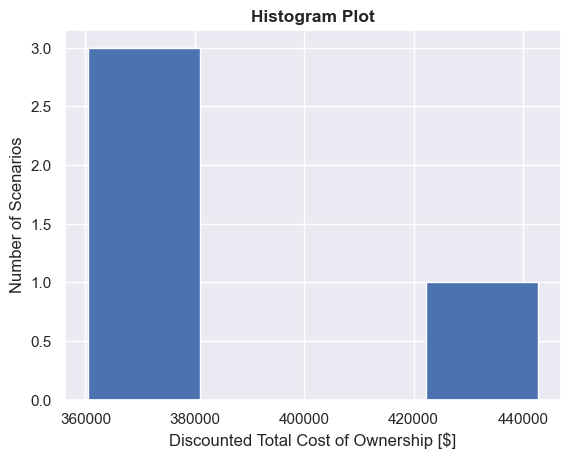
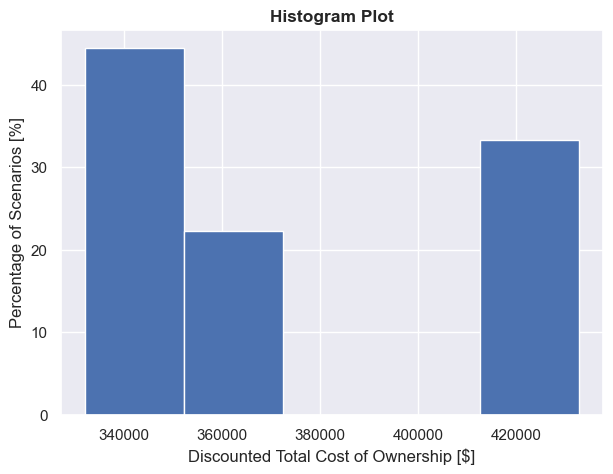
Add height and width param to violin and histogram

diff --git a/t3co/demos/visualization_demo.py b/t3co/demos/visualization_demo.py
@@ -1,4 +1,4 @@
-#%%
+# %%
 import pandas as pd
 import os
 
@@ -12,6 +12,7 @@ import time
 from t3co.run import run_scenario as rs
 from t3co.moopack import moo
 from t3co import sweep
+
 
 def run_t3co(analysis_id, config_filename, run_multi=False, save_results=False):
     start = time.time()
@@ -60,7 +61,11 @@ def run_t3co(analysis_id, config_filename, run_multi=False, save_results=False):
         "exclude": exclude,
         "algo": algorithms,
         "dir_mark": "",
-        "dst_dir":  (Path(os.path.abspath(__file__)).parents[1] / "results" if config.dst_dir is None else  config.dst_dir),
+        "dst_dir": (
+            Path(os.path.abspath(__file__)).parents[1] / "results"
+            if config.dst_dir is None
+            else config.dst_dir
+        ),
         "file_mark": "".replace(".csv", ""),
         "skip_save_veh": True,
         "x_tol": float(0.001),
@@ -179,7 +184,9 @@ def run_t3co(analysis_id, config_filename, run_multi=False, save_results=False):
                 reports.append(report_i)
                 k = len(reports)
                 if save_results:
-                    if (k % 20 == 0 or k == 4) and (len(selections_list) != 1 and k != 0):
+                    if (k % 20 == 0 or k == 4) and (
+                        len(selections_list) != 1 and k != 0
+                    ):
                         reports_df = pd.DataFrame(reports)
                         reports_df.sort_values(by=["selection"], inplace=True)
                         reports_df.to_csv(resdir / RES_FILE, index=False, header=True)
@@ -191,7 +198,6 @@ def run_t3co(analysis_id, config_filename, run_multi=False, save_results=False):
             pool.close()
             pool.join()
 
-            
             if save_results:
                 reports_df = pd.DataFrame(reports)
                 reports_df.sort_values(by=["selection"], inplace=True)
@@ -243,11 +249,30 @@ def run_t3co(analysis_id, config_filename, run_multi=False, save_results=False):
 
     return reports_df
 
-reports_df = run_t3co(analysis_id=0, config_filename=Path(__file__).parents[1]/"resources"/"T3COConfig.csv")
-tc = T3COCharts(results_df=reports_df)  
-tc.generate_tco_plots(x_group_col='vehicle_fuel_type', y_group_col='None', legend_pos=0.20, bar_width=0.6).show()
 
-tc.generate_histogram(hist_col='discounted_tco_dol', n_bins=4).show()
-tc.generate_violin_plot(x_group_col='vehicle_fuel_type', y_group_col='mpgge').show()
+reports_df = run_t3co(
+    analysis_id=0,
+    config_filename=Path(__file__).parents[1] / "resources" / "T3COConfig.csv",
+)
+
+#%%
+tc = T3COCharts(results_df=reports_df)
+tc.generate_tco_plots(
+    x_group_col="vehicle_type",
+    subplot_group_col="veh_year",
+    y_group_col="None",
+    legend_pos=0.33,
+    bar_width=0.6,
+    fig_x_size=2.5,
+).show()
+
+#%%
+tc.generate_histogram(
+    hist_col="discounted_tco_dol", n_bins=5, fig_height=5, fig_width=7, show_pct=True
+).show()
+#%%
+tc.generate_violin_plot(
+    x_group_col="vehicle_type", y_group_col="mpgge", fig_height=5, fig_width=7
+).show()
 
 # %%

diff --git a/t3co/visualization/charts.py b/t3co/visualization/charts.py
@@ -303,7 +303,7 @@ class T3COCharts:
                 len(x_groups),
                 sharey=True,
                 sharex=True,
-                figsize=(min(len(x_groups) * fig_x_size + 8, 50), min(4 + fig_y_size)),
+                figsize=(min(len(x_groups) * fig_x_size + 8, 50), min(4 + fig_y_size,50)),
             )
             # print(self.t3co_results.loc[ self.t3co_results[x_group_col] == x_groups[0]])
 
@@ -589,7 +589,7 @@ class T3COCharts:
         return fig
 
     def generate_violin_plot(
-        self, x_group_col: str, y_group_col: str = "discounted_tco_dol"
+        self, x_group_col: str, y_group_col: str = "discounted_tco_dol", fig_width:float =8, fig_height:float = 5,
     ) -> matplotlib.figure.Figure:
         """
         This method generates a violin plot based on x-axis group column and y-axis column name.
@@ -603,8 +603,8 @@ class T3COCharts:
         """
         print("Running Violin plots")
         fontsize = 10
-        fig, ax = plt.subplots(1, 1)
-       
+        fig, ax = plt.subplots(1,1,figsize = (fig_width,fig_height))
+        self.t3co_results[y_group_col] = self.t3co_results[y_group_col].astype(float).round(5)
         sns.violinplot(
             x=x_group_col,
             y=y_group_col,
@@ -629,7 +629,7 @@ class T3COCharts:
         return fig
 
     def generate_histogram(
-        self, hist_col: str, n_bins: int, show_pct: bool = False
+        self, hist_col: str, n_bins: int, fig_width:float =8, fig_height:float = 5, show_pct: bool = False
     ) -> matplotlib.figure.Figure:
         """
         This method generates a histogram plot based on inputs hist_col and n_bins
@@ -637,14 +637,17 @@ class T3COCharts:
         Args:
             hist_col (str): T3CO column name to plot histogram
             n_bins (int): Number of bins in histogram
+            fig_width (float): Figure total width
+            fig_height (float):  Figure total height
             show_pct (bool, optional): If True, plots percentage on y-axis instead of number of items. Defaults to False.
 
         Returns:
             matplotlib.figure.Figure: Histogram figure object
         """
         print("Running Histogram")
-        fig, ax = plt.subplots()
+        fig, ax = plt.subplots(1,1,figsize = (fig_width,fig_height))
         fontsize = 10
+        self.t3co_results[hist_col] = self.t3co_results[hist_col].astype(float).round(4)
         if len(self.t3co_results[hist_col]) > 0:
             if show_pct:
                 hist, bins = np.histogram(
